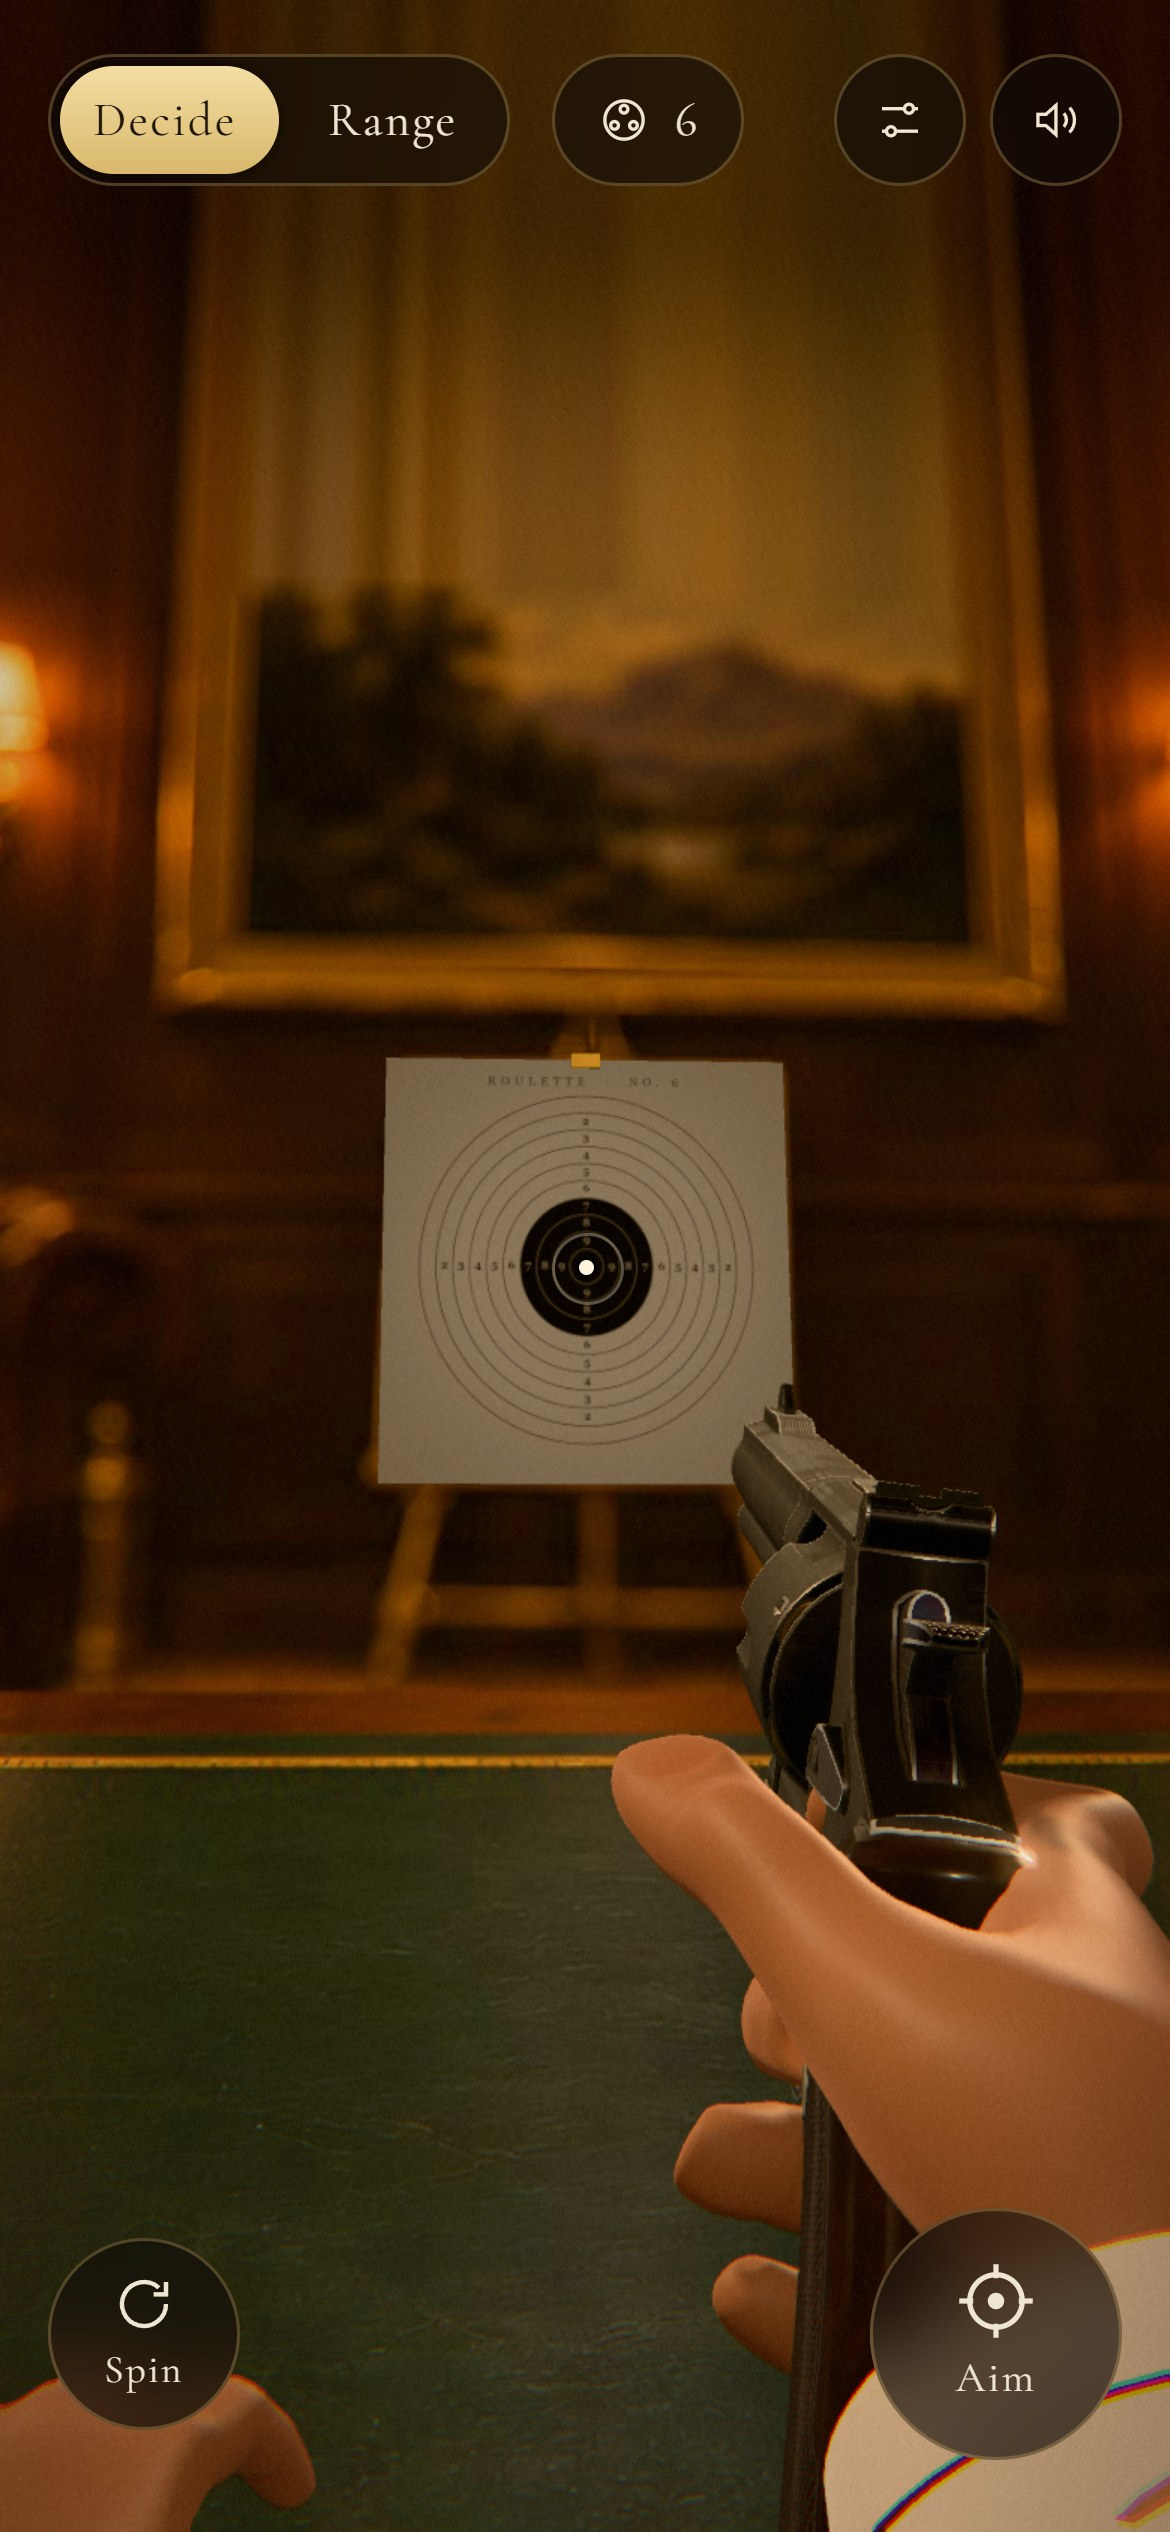
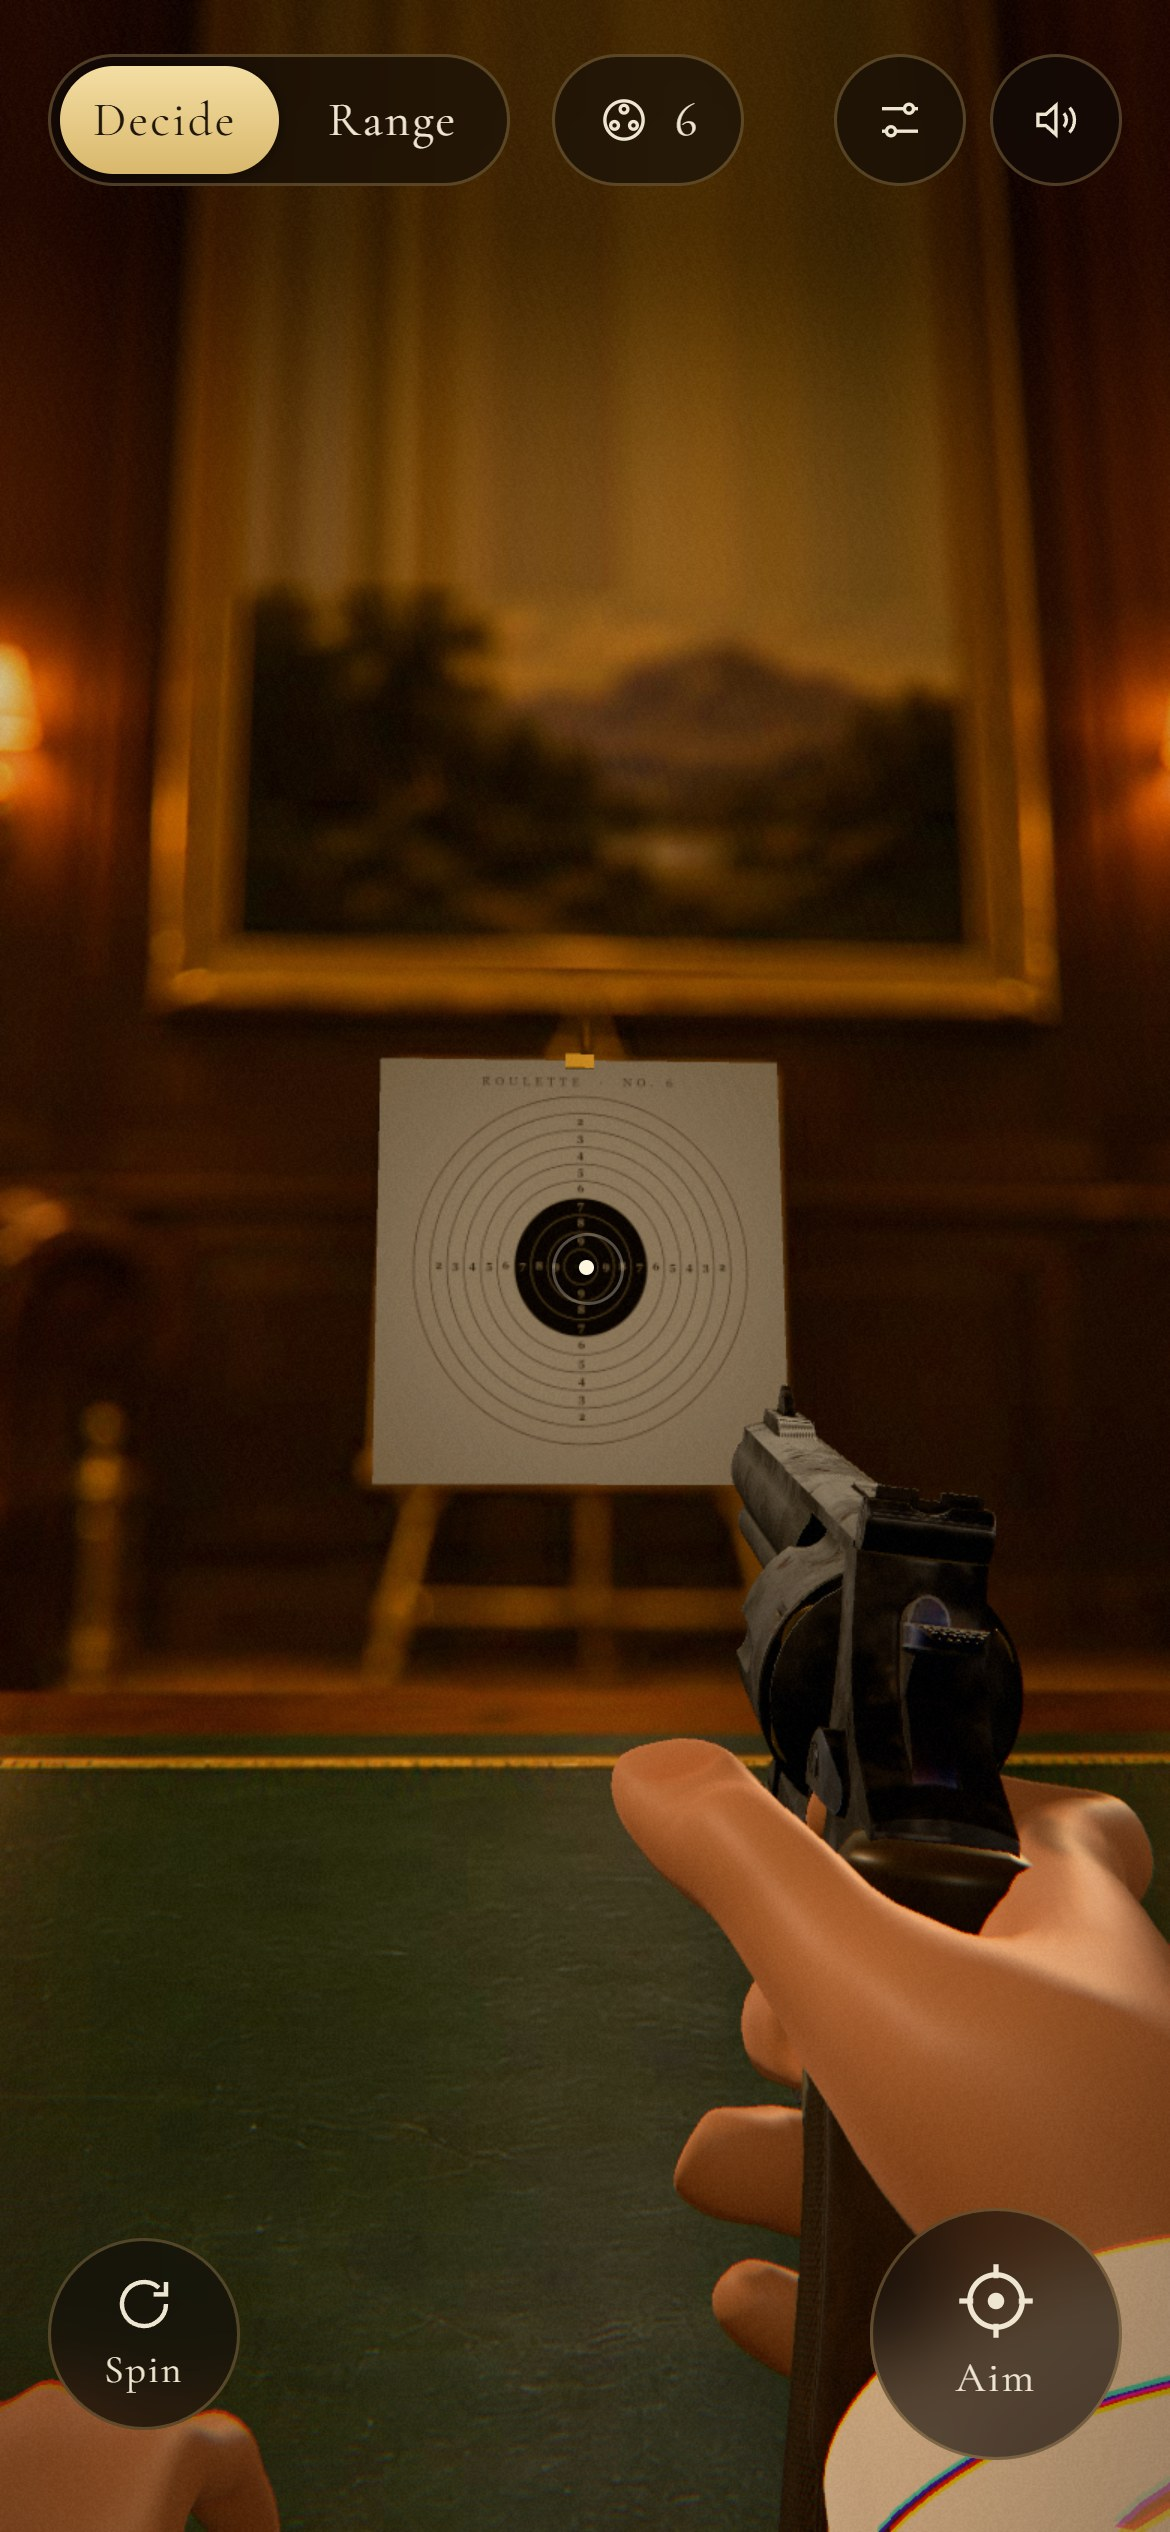
Revolver look pass: richer walnut grain, new stills (preview, phone Chromium/WebKit, desktop, range), Customize tiles, GUN-REAL notes

diff --git a/js/revolver.js b/js/revolver.js
@@ -83,7 +83,7 @@ const STEEL_LOOKS = {
   },
 };
 const GRIP_LOOKS = {
-  service: { dark: lin(0x140904), light: lin(0x2c170b), hi: lin(0x4a2e1a), grain: 0.7, rough: 0.46, roughChk: 0.7, cc: 0.32, ccR: 0.3, normal: 'checker', nScale: 1.0 },
+  service: { dark: lin(0x140904), light: lin(0x2c170b), hi: lin(0x55331b), grain: 0.85, rough: 0.46, roughChk: 0.7, cc: 0.32, ccR: 0.3, normal: 'checker', nScale: 1.0 },
   stainless: { dark: lin(0x060606), light: lin(0x0a0a0a), hi: lin(0x0d0d0d), grain: 0.0, rough: 0.86, roughChk: 0.86, cc: 0.0, ccR: 0.6, normal: 'stipple', nScale: 0.7, spec: 0.22, specC: 0xb4c0d0 },
   nickel: { dark: lin(0xcdbf9f), light: lin(0xece5d3), hi: lin(0xf4efe3), grain: 0.25, rough: 0.3, roughChk: 0.42, cc: 0.45, ccR: 0.25, normal: 'checker', nScale: 0.6 },
 };

diff --git a/docs/GUN-REAL.md b/docs/GUN-REAL.md
@@ -9,23 +9,25 @@ The procedural revolver is replaced by an artist-made model: "Smith & Wesson's 6
 - The rubber wrap-around grip is re-textured as walnut instead of being tinted. It gets planar UVs, a generated checkered field inset from the panel outline (bordered, worn flat on the high points), and a raised round medallion on each side, modelled in the script. Its shape is still the source's wrap-around grip, not new slab panels.
 
 ## Looks (`STEEL_LOOKS`, `GRIP_LOOKS`, `MEDAL_LOOKS` in `js/revolver.js`)
-- **service** (default): blue-black steel with uneven grey-brown patina patches, finish worn thin next to edges, and bare bright steel on convex edges and the muzzle crown. The edge mask is baked from the model's curvature and AO. It also has handling scratches, grime in recesses and a little scanned scuffing. Low oil sheen, not glossy. Hammer and trigger are case-coloured. Grips are dark red-brown checkered walnut with a worn nickel medallion.
-- **stainless**: the source's brushed stainless (its roughness and albedo detail mostly shown through), black stippled grip.
-- **nickel**: bright nickel, ivory grip with light checkering, brass-coloured medallion.
+- **service** (default): blue-black steel. Patina is cloudy, direction-free 3D value noise in gun space (grey worn clouds, fine speckle, a few small rust freckles), with a few fine handling scratches on top; no tile is stretched along the barrel. Edges are only worn thin (a slightly lighter grey), broken along their length by low-frequency noise, so no edge reads as a line. Bare mid-grey steel (`worn` 0x69686b, rough 0.48) appears only where a carried gun wears: the muzzle crown and the front of the barrel and underlug, the cylinder's front edge, the front sight, the top-strap corners, the bottom of the trigger guard and the hammer spur. Those places are masks on a per-vertex rest position in gun space (`aRoot`, built at load), so they stay put when parts move. Low oil sheen. Hammer and trigger are case-coloured. Satin oiled walnut grip (soft broad highlight, visible grain, checkering worn smoother on its high points) with a worn nickel medallion.
+- **stainless**: cool neutral brushed stainless, black rubber grip (weak, cool sheen).
+- **nickel**: bright warm-white nickel, the brightest of the three; ivory grip, brass-coloured medallion.
+- The rooms are warm, so each look carries a reflection gain and tint (`env`) applied in the shader; `scene.environmentIntensity` overrides `envMapIntensity` in this three.js build. Direct lamp highlights on steel are damped at grazing angles and capped (`specMax`), so curved edges such as the trigger guard never bloom into a glowing ring.
+- Open cylinder: the cylinder has its own steel material instance. On its rear face the scanned maps are blurry, so the shader draws the extractor star (arcs round each chamber, a crisp anti-aliased groove), the machined hub and the matte face; the ratchet and centre pin are the model's own geometry. Primers are satin nickel; the `.44 MAG / 240 GR` headstamps and the fired-primer dent are unchanged.
 
 ## Maps (all from the script; 2048 px max, WebP)
 | file | content | bytes |
 |---|---|---|
-| revolver.glb | Draco mesh, 21,522 tris (gun 9,138 + 6 x (cartridge 1,424 + primer 640)) | 78,248 |
+| revolver.glb | Draco mesh, 21,522 tris (gun 9,138 + 6 x (cartridge 1,424 + primer 640)); grip with smooth normals | 77,688 |
 | revolver_wear.webp | baked AO / cavity / convex edge on the source UVs | 309,588 |
 | revolver_normal.webp | source normal map (OpenGL), marks flattened | 185,168 |
 | revolver_detail.webp | R source roughness, G source metalness, B source albedo luminance | 214,696 |
 | revolver_grip_m.webp | wood grain / checkered field / figure | 98,502 |
 | revolver_grip_n.webp | checkering normal map | 110,772 |
-| revolver_scratch.webp | unchanged procedural scratch tile | 242,090 |
-| **total** | | **1,239,064** (old revolver set 1,137,490) |
+| revolver_scratch.webp | procedural scratch tile (handling scratches; the patina no longer uses it) | 242,090 |
+| **total** | | **1,238,504** (old revolver set 1,137,490) |
 
-`revolver_normal.webp` and `revolver_detail.webp` are new names: `sw.js` precaches them and `CACHE` is `roulette-v5`. Precache: 5,474,971 bytes on main (5dfabb2), 5,579,347 bytes here.
+`revolver_normal.webp` and `revolver_detail.webp` are new names: `sw.js` precaches them and `CACHE` is `roulette-v5`. Precache (sum of the `SHELL` files, `./` counted as index.html): 5,591,171 bytes here, 5,585,579 at 32055a5.
 
 ## Fit (`FIT` in `js/revolver.js`)
 The model's frame (origin = trigger pivot) is placed so the trigger pivot sits where the old one did: 13 mm above and 3 mm behind the trigger-finger origin, with no rotation or scale. The model is kept at its real size. Hand, trigger finger and grip stay in place; `hands.js` and `main.js` are untouched. What moved, because the real gun is bigger:
@@ -37,14 +39,15 @@ The model's frame (origin = trigger pivot) is placed so the trigger pivot sits w
 - The grip is longer than the old one and reaches below the little finger at the hip.
 
 ## Verified
-- Preview stills (1600x1000): `docs/shots/v3-gun/service-{side,q34,open,sights,grip,rear}.jpg`, `stainless-{side,q34}.jpg`, `nickel-{side,q34}.jpg`.
-- In-app, on the merge with origin/main 5dfabb2:
-  - Phone 390x844 with touch, Chromium and WebKit: `phone-{chromium,webkit}-{hip,ads,open,fire,custom}.jpg`.
+- Preview stills (1600x1000): `docs/shots/v3-gun/service-{side,q34,open,sights,grip,rear}.jpg`, `stainless-{side,q34}.jpg`, `nickel-{side,q34}.jpg`, checked at full size and in crops against the two reference photos (worn blued revolver with walnut grip; open cylinder macro).
+- In-app (`index.html?nosw&debug`, the governor held off with `dbg.noGovernor` so Windows WebKit keeps its canvas in screenshots):
+  - Phone 390x844 with touch, DPR 3, Chromium and WebKit: `phone-{chromium,webkit}-{hip,ads,open,fire,custom}.jpg`.
   - Desktop 1440x900 Chromium: `desk-chromium-{hip,ads,open}.jpg`.
   - Range mode loads and fires: `phone-chromium-range-fire.jpg`.
   - 0 console errors and 0 failed requests in every run.
-- Spin, swing-out, hammer, trigger, fired primer dent, twirl, inspect, hold and fan all run, captured as freeze-frame checks. Customize tiles `assets/ui/gun-*.webp` were re-rendered from the new model at 480x300.
-- Frame time, phone-size Chromium: 16.7 ms median (vsync) on both main and this branch. A synced render (composer.render + readPixels, 60 frames, 780x1688) took 2.2-2.8 ms median here vs 2.1-3.3 ms on main. Windows WebKit, which renders in software: 47-54 ms.
+  - The sight picture lines up at ADS (front sight in the rear notch on the bull), and the six choice labels point at the six chambers in the open view.
+- Customize tiles `assets/ui/gun-*.webp` (480x300) re-rendered from the new looks.
+- Not re-measured after the look pass: frame time. The shader adds 3D value noise (8 octave lookups) per steel pixel and the star block on the cylinder face only.
 
 ## Hunks outside the revolver files
 - `sw.js`: `CACHE` is `roulette-v5`, and the precache list gains `revolver_normal.webp` and `revolver_detail.webp`.
@@ -53,7 +56,7 @@ The model's frame (origin = trigger pivot) is placed so the trigger pivot sits w
 ## Not matching the reference photos yet / not verified
 - The reference revolvers have a 4 in barrel and a slimmer older frame. This model is a large frame with a 6.5 in barrel and a full underlug, which is fixed by the model.
 - The grip keeps the wrap-around target-stock shape: wood covers the backstrap. The references have two slab panels with the steel backstrap showing.
-- The patina is texture-driven: there is no pitting or rust and no real micro-relief. The headstamp is a flat texture, not stamped geometry.
+- The patina is colour and roughness only: no pitting or micro-relief in the normals. The extractor star is drawn in the shader, not modelled. The headstamp is a flat texture, not stamped geometry.
 - Not checked on a real iPhone or Android phone (frame rate, look under a phone GPU).
 
 ## Rebuild
